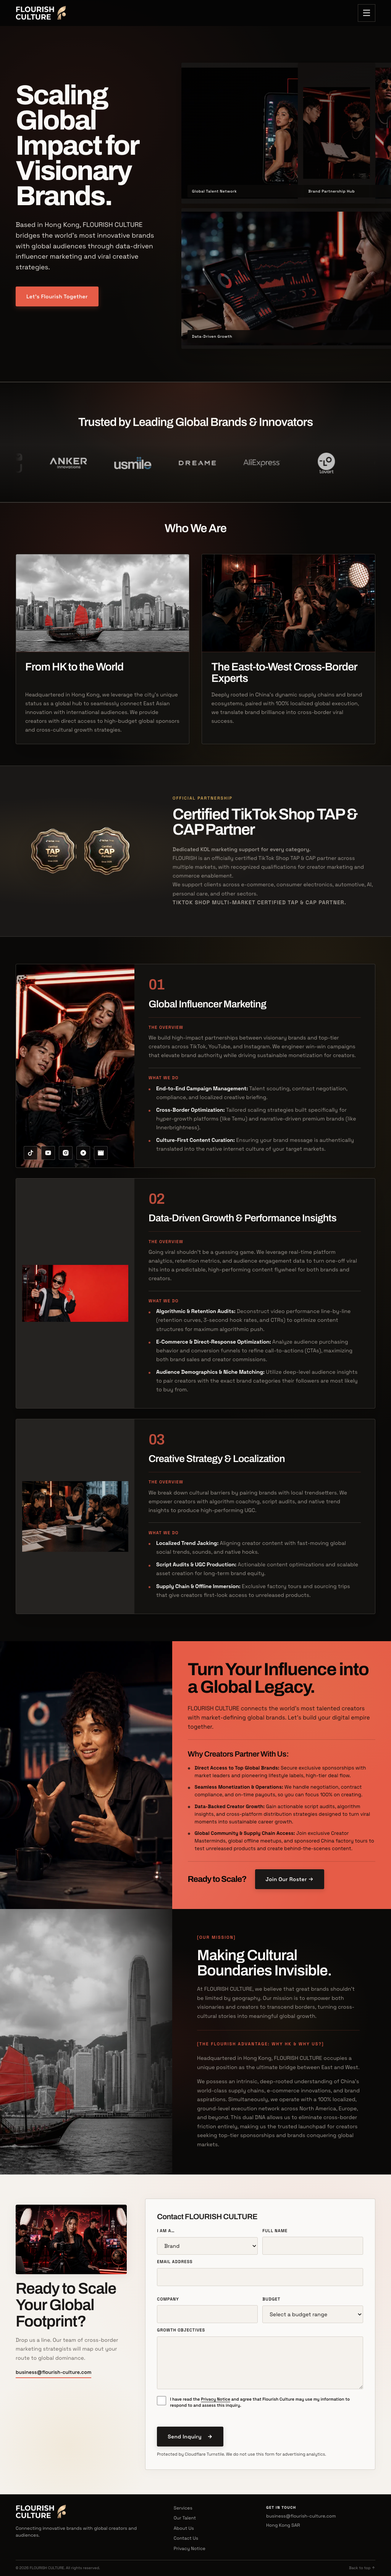
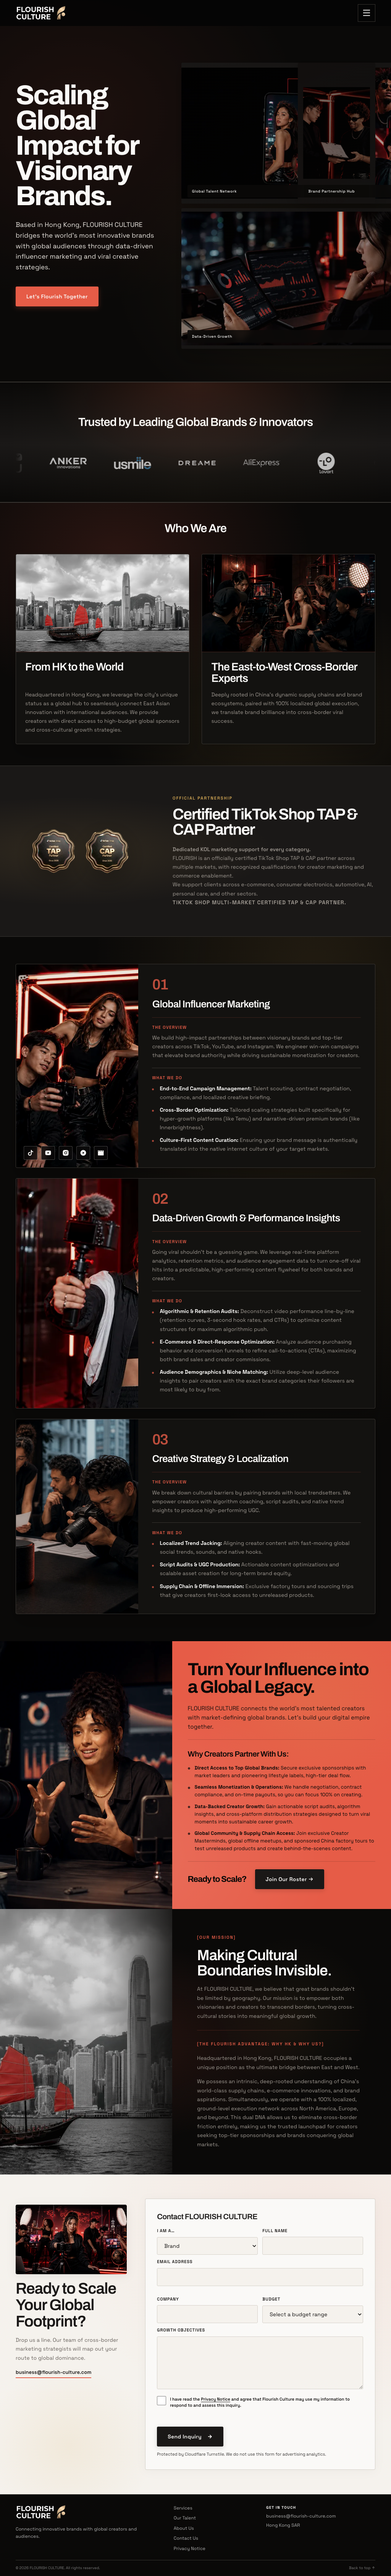
fix: refine badge matte and service crops

diff --git a/index.html b/index.html
@@ -19,7 +19,7 @@
 
     <header class="site-header" data-header>
       <a class="wordmark wordmark-lockup" href="#top" aria-label="FLOURISH CULTURE home">
-        <img src="assets/flourish-logo-lockup.png" alt="FLOURISH CULTURE — Global Creator Growth" width="704" height="193" />
+        <img src="assets/flourish-logo-lockup.png" alt="FLOURISH CULTURE — Global Creator Growth" width="722" height="211" />
       </a>
 
       <button
@@ -178,8 +178,8 @@
       <section class="official-partners" aria-labelledby="official-partners-heading">
         <div class="official-partners-layout section-shell">
           <div class="official-partner-badges reveal" aria-label="TikTok Shop partner certifications">
-            <img src="assets/partner-badges/tiktok-shop-tap.png" alt="TikTok Shop Certified TAP Partner" width="352" height="351" loading="lazy" decoding="async" />
-            <img src="assets/partner-badges/tiktok-shop-cap.png" alt="TikTok Shop Certified CAP Partner" width="323" height="342" loading="lazy" decoding="async" />
+            <img src="assets/partner-badges/tiktok-shop-tap.png" alt="TikTok Shop Certified TAP Partner" width="354" height="361" loading="lazy" decoding="async" />
+            <img src="assets/partner-badges/tiktok-shop-cap.png" alt="TikTok Shop Certified CAP Partner" width="345" height="353" loading="lazy" decoding="async" />
           </div>
           <div class="official-partners-copy reveal">
             <p class="eyebrow">Official Partnership</p>
@@ -250,11 +250,12 @@
               </div>
             </article>
 
-            <article class="service-block service-block-complete-media reveal">
+            <article class="service-block reveal">
               <div class="service-media">
                 <picture>
                   <source srcset="assets/optimized/creator-recruitment.webp" type="image/webp" />
                   <img
+                    class="service-image-performance"
                     src="assets/optimized/creator-recruitment.webp"
                     alt="Performance marketing dashboard with ROAS metrics and creator content optimization"
                     width="1200"
@@ -287,10 +288,11 @@
               </div>
             </article>
 
-            <article class="service-block service-block-complete-media reveal">
+            <article class="service-block reveal">
               <div class="service-media">
                 <picture>
                   <img
+                    class="service-image-localization"
                     src="assets/service-creative-localization-camera-speaker.webp"
                     alt="Creative team planning a campaign as a photographer captures a black speaker on the table"
                     width="1536"

diff --git a/review-editable.html b/review-editable.html
@@ -83,7 +83,7 @@
     -->
     <header class="site-header" data-header>
       <a class="wordmark wordmark-lockup" href="#top" aria-label="FLOURISH CULTURE home">
-        <img src="assets/flourish-logo-lockup.png" alt="FLOURISH CULTURE — Global Creator Growth" width="704" height="193" />
+        <img src="assets/flourish-logo-lockup.png" alt="FLOURISH CULTURE — Global Creator Growth" width="722" height="211" />
       </a>
 
       <button
@@ -245,8 +245,8 @@
       <section class="official-partners" aria-labelledby="official-partners-heading">
         <div class="official-partners-layout section-shell">
           <div class="official-partner-badges reveal" aria-label="TikTok Shop partner certifications">
-            <img src="assets/partner-badges/tiktok-shop-tap.png" alt="TikTok Shop Certified TAP Partner" width="352" height="351" loading="lazy" decoding="async" />
-            <img src="assets/partner-badges/tiktok-shop-cap.png" alt="TikTok Shop Certified CAP Partner" width="323" height="342" loading="lazy" decoding="async" />
+            <img src="assets/partner-badges/tiktok-shop-tap.png" alt="TikTok Shop Certified TAP Partner" width="354" height="361" loading="lazy" decoding="async" />
+            <img src="assets/partner-badges/tiktok-shop-cap.png" alt="TikTok Shop Certified CAP Partner" width="345" height="353" loading="lazy" decoding="async" />
           </div>
           <div class="official-partners-copy reveal">
             <p class="eyebrow">Official Partnership</p>
@@ -316,9 +316,10 @@
               </div>
             </article>
 
-            <article class="service-block service-block-complete-media reveal">
+            <article class="service-block reveal">
               <div class="service-media">
                 <img
+                  class="service-image-performance"
                   src="assets/creator-recruitment.jpg"
                   alt="Performance marketing dashboard with ROAS metrics and creator content optimization"
                 />
@@ -345,9 +346,10 @@
               </div>
             </article>
 
-            <article class="service-block service-block-complete-media reveal">
+            <article class="service-block reveal">
               <div class="service-media">
                 <img
+                  class="service-image-localization"
                   src="assets/hong-kong-culture.jpg"
                   alt="Cultural bridge strategy meeting - East meets West creative localization workshop"
                 />

diff --git a/styles.css b/styles.css
@@ -1043,7 +1043,7 @@ h1 {
 .service-block {
   position: relative;
   display: grid;
-  grid-template-columns: minmax(280px, 0.65fr) minmax(0, 1.35fr);
+  grid-template-columns: minmax(288px, 0.67fr) minmax(0, 1.33fr);
   min-height: 0;
   overflow: hidden;
   border: 1px solid var(--line-dark);
@@ -1087,31 +1087,17 @@ h1 {
   transition: filter 0.5s ease, transform 0.8s cubic-bezier(0.25, 0.46, 0.45, 0.94);
 }
 
-.service-block-complete-media .service-media {
-  display: grid;
-  place-items: center;
-  padding: clamp(12px, 1.6vw, 22px);
+.service-media img.service-image-performance {
+  object-position: 0% center;
 }
 
-.service-block-complete-media .service-media picture {
-  display: block;
-  width: 100%;
-  height: 100%;
-}
-
-.service-block-complete-media .service-media img {
-  min-height: 0;
-  object-fit: contain;
-  object-position: center;
+.service-media img.service-image-localization {
+  object-position: 88% center;
 }
 
 .service-block:hover .service-media img {
   filter: saturate(1.02) contrast(1.05) brightness(0.97);
   transform: scale(1.04);
-}
-
-.service-block-complete-media:hover .service-media img {
-  transform: none;
 }
 
 .platform-chips {
@@ -2075,7 +2061,7 @@ textarea:user-invalid {
   }
 
   .service-block {
-    grid-template-columns: minmax(230px, 0.66fr) minmax(0, 1.34fr);
+    grid-template-columns: minmax(238px, 0.68fr) minmax(0, 1.32fr);
   }
 
   .service-detail {

diff --git a/docs/CHANGELOG.md b/docs/CHANGELOG.md
@@ -15,7 +15,8 @@ acceptance remain incomplete.
 - Reworked the Hero media into a responsive two-landscape/one-portrait grid using `object-fit: contain`, so each supplied image remains fully visible.
 - Added the English “Official Partnership” proof section between Who We Are and Services, with transparent TAP and CAP badge derivatives on the left and partner copy on the right.
 - Re-exported the TAP/CAP badges from the complete supplied reference after detecting a clipped TAP contour; reduced the header lockup and added explicit badge padding so neither treatment touches its container edges.
-- Replaced brightness-based badge background removal with edge-connected background removal so the internal TAP/CAP letter highlights remain opaque; further reduced the header lockup and made Service 02/03 use complete, non-zooming image display.
+- Replaced brightness-based badge background removal with edge-connected background removal; verified the exterior edge columns are transparent while TAP/CAP letter highlights remain intact.
+- Restored Service 02/03 to the `755d57b` cover-crop treatment, widened the media column slightly, and set independent 02/03 focal positions for the presenter/camera and speaker/photographer.
 - This is a local source candidate only: no archive, production deployment, rollback snapshot or public read-back has been performed.
 
 | Version | Date | Status | Notes |
